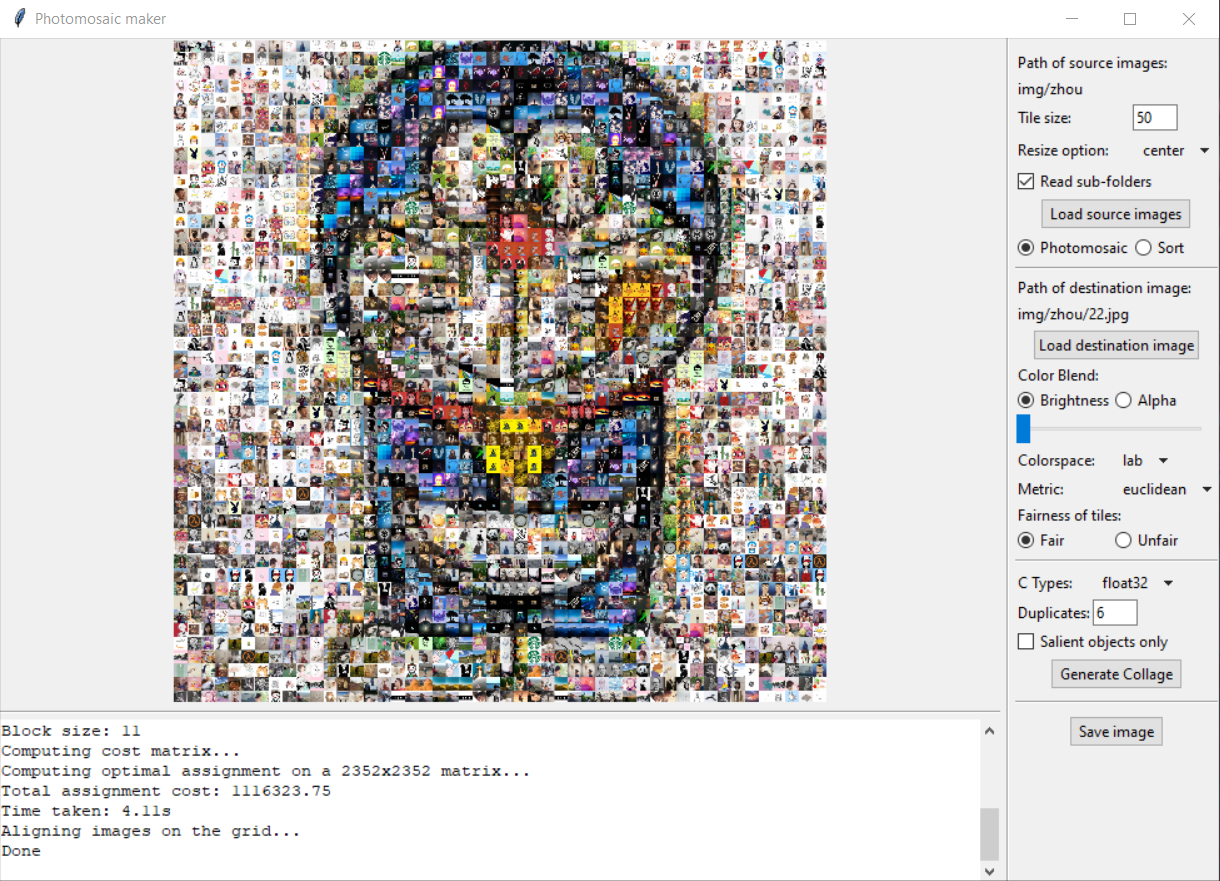
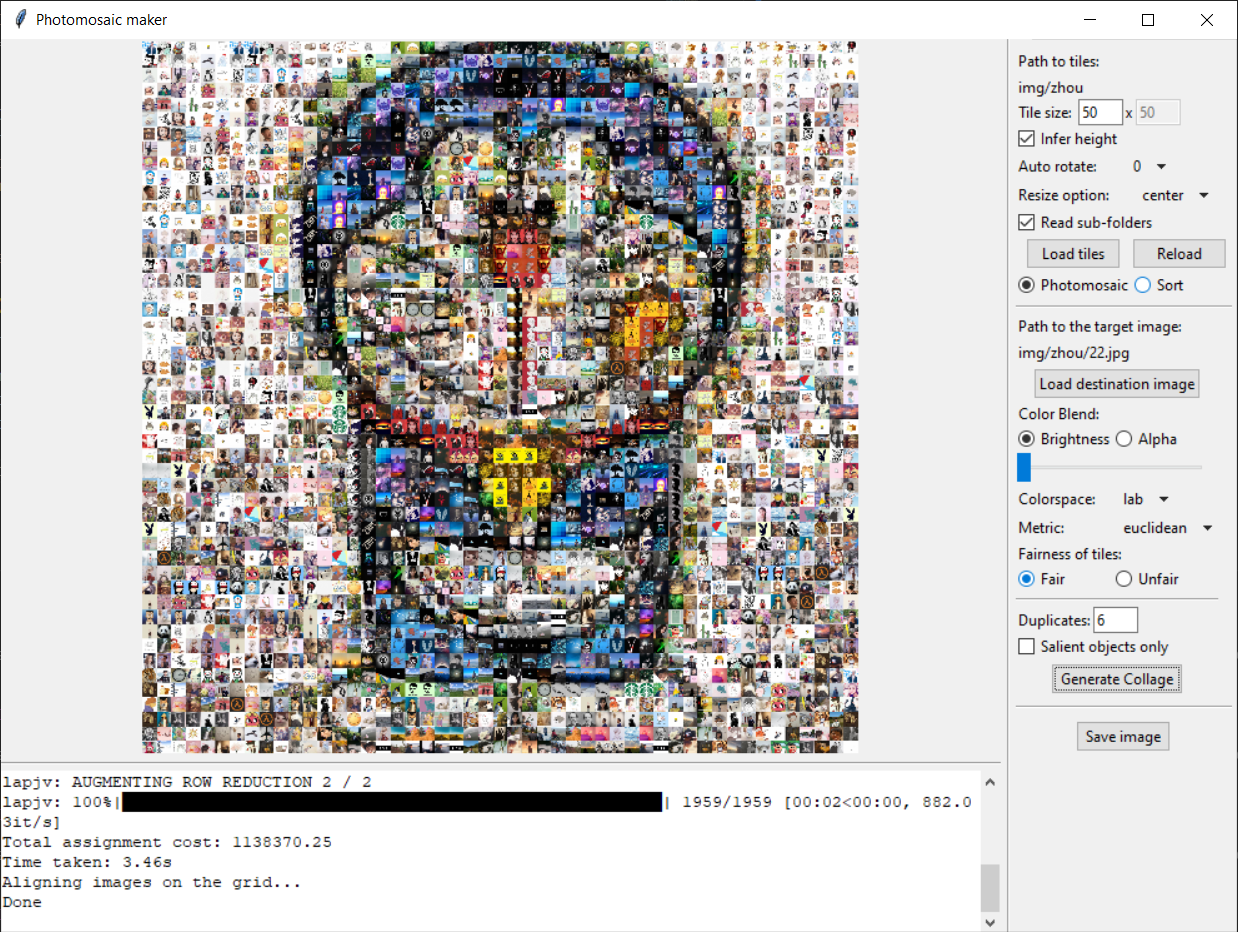
update readme and gui example

diff --git a/gui.py b/gui.py
@@ -694,4 +694,8 @@ if __name__ == "__main__":
         show_img(dest_img, False)
         dest_img_path.set(cmd_args.collage)
 
+        reload_img_button.config(state='enabled')
+        sort_button.config(state='enabled')
+        collage_button.config(state='enabled')
+
     root.mainloop()

diff --git a/README.md b/README.md
@@ -21,6 +21,26 @@
 
 ![gui demo](./examples/gui.png)
 
+- [Distinguishing Features of this Photomosaic Maker](#distinguishing-features-of-this-photomosaic-maker)
+- [Getting Started](#getting-started)
+  - [Using the pre-built binary](#using-the-pre-built-binary)
+  - [Running Python script directly](#running-python-script-directly)
+- [Command line usage](#command-line-usage)
+  - [Option 1: Sorting](#option-1-sorting)
+  - [Option 2: Make a photomosaic](#option-2-make-a-photomosaic)
+    - [Option 2.1: Give a fair chance to each tile](#option-21-give-a-fair-chance-to-each-tile)
+    - [Option 2.2: Best fit (unfair tile usage)](#option-22-best-fit-unfair-tile-usage)
+    - [Option 2.3 Display salient object only](#option-23-display-salient-object-only)
+    - [Blending Options](#blending-options)
+    - [Note on performance and GPU acceleration](#note-on-performance-and-gpu-acceleration)
+  - [All command line options](#all-command-line-options)
+- [Utility Script: download profile pictures of your WeChat friends](#utility-script-download-profile-pictures-of-your-wechat-friends)
+  - [Groupchat Members](#groupchat-members)
+  - [All available profile pictures](#all-available-profile-pictures)
+  - [Notes](#notes)
+- [Credits (Names in alphabetical order)](#credits-names-in-alphabetical-order)
+
+
 ## Distinguishing Features of this Photomosaic Maker
 
 A number of photomosaic makers already exist (like [mosaic](https://github.com/codebox/mosaic) and [Photomosaic-generator](https://github.com/uvipen/Photomosaic-generator)), but this photomosaic maker has the following unique features
@@ -77,6 +97,8 @@ python gui.py
 ```bash
 python make_img.py --path img/zhou --sort bgr_sum --size 50 --out examples/sort-bgr.png
 ```
+
+`--size` takes one or two arguments. If only one is specified, it is interpreted as the tile width and tile height will be inferred from the aspect ratios of the tiles provided (this corresponds to the `infer height` option in the GUI). If two are specified, they are interpreted as width and height. 
 
 Use `--ratio w h` to change the aspect ratio, whose default is 16:9. E.g. `--ratio 21 9` specifies the aspect ratio to be 21:9. 
 
@@ -164,12 +186,30 @@ python make_img.py --path img/zhou --dest_img examples/dest.jpg --size 25 --dup 
 python make_img.py --path img/zhou --dest_img examples/dest.jpg --size 25 --dup 8 --blending brightness --blending_level 0.25 --out examples/blend-brightness-0.25.png
 ```
 
-| Fair tile usage, no blending                       | Alpha blending (25%)                               | Brightness blending (25%)                               |
-| -------------------------------------------------- | -------------------------------------------------- | ------------------------------------------------------- |
+| Fair tile usage, no blending                       | Alpha blending (25%)                                    | Brightness blending (25%)                                    |
+| -------------------------------------------------- | ------------------------------------------------------- | ------------------------------------------------------------ |
 | <img src="examples/fair-dup-10.png" width="350px"> | <img src="examples/blend-alpha-0.25.png" width="350px"> | <img src="examples/blend-brightness-0.25.png" width="350px"> |
 
 
-#### Other options
+#### Note on performance and GPU acceleration
+
+Different photomosaic making options have different computational complexity. The following table shows the computational complexity of different cases. Here, `n` is the number of tiles (after duplication in fair mode), `m` is the number of pixels in the destination image, and `k` is the number of tiles used in the unfair mode (this is equal to your specified `max_width` multiplied by the aspect ratio of your destination image).  
+
+| Type of photomosaic  | Computational complexity | GPU acceleration                                |
+| -------------------- | ------------------------ | ----------------------------------------------- |
+| Fair                 | `O(nm + n^3)`            | partial (~100x speed up for the `nm` part only) |
+| Unfair, freq_mul > 0 | `O(nm + nk log n)`       | full (~100x speed boost)                        |
+| Unfair, freq_mul = 0 | `O(nm + nk)`             | full (~200x speed boost)                        |
+
+Takeaway 1:
+
+The high (cubic) computational complexity of the fair mode means that the computation time grows much faster with respect to the number of tiles. It typically takes 30 seconds for 5000 tiles and 5 minutes for 10000 tiles. For large tile count, unless you need fair tile usage, you should go for the unfair mode and set freq_mul appropriately. 
+
+Takeaway 2:
+
+Notice the role of `m` in the complexity. If you have a high-definition destination image (e.g. 4000x3000) and notice the computation time is long, you can first downsample it so the number of pixels (`m`) will be lower. Do note that over downsampling will reduce the quality of the photomosaic. 
+
+### All command line options
 
 ```python make_img.py -h``` will give you all the available command line options.
 
@@ -248,7 +288,7 @@ optional arguments:
   --exp                 Do experiments (for testing only) (default: False)
 ```
 
-### Downloading profile pictures of your WeChat friends
+## Utility Script: download profile pictures of your WeChat friends
 
 If you have a WeChat account, an utility script `extract_img.py` is provided to download your friends' profile pictures so you can make a photomosaic using them. To use this script, you need to have itchat-uos installed
 
@@ -262,7 +302,7 @@ Then, use `--dir` to specify the directory to store the profile pictures of your
 python extract_img.py --dir img
 ```
 
-#### Groupchat Members
+### Groupchat Members
 
 You can also download the group members' profiles images from a group chat
 
@@ -276,7 +316,7 @@ You can download members' profile pictures from all your groupchats if you omit 
 python extract_img.py --dir img --type groupchat
 ```
 
-#### All available profile pictures
+### All available profile pictures
 
 You can download profile pictures from both your friends and members from all your groupchats by specifying `--type all`. 
 
@@ -284,7 +324,7 @@ You can download profile pictures from both your friends and members from all yo
 python extract_img.py --dir img --type all
 ```
 
-#### Notes
+### Notes
 
 1. Due to unknown issues, sometimes some profile pictures are not available, so they will be blank and unusable. The photomosaic maker will automatically ignore them when loading images. 
 2. When you download a large amount of profile pictures at once, WeChat may block you from downloading more. This will appear as `timeout downloading pics, retrying.... attempt x` in terminal. When this happens, you can terminate the program and run it again a day after. Already downloaded profile pictures will not be downloaded again. 
